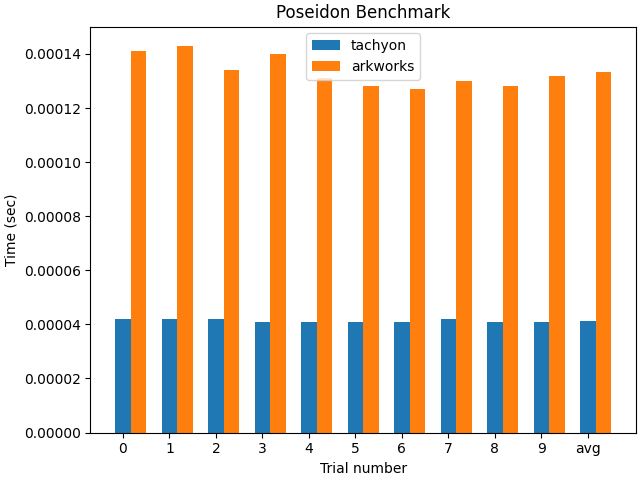
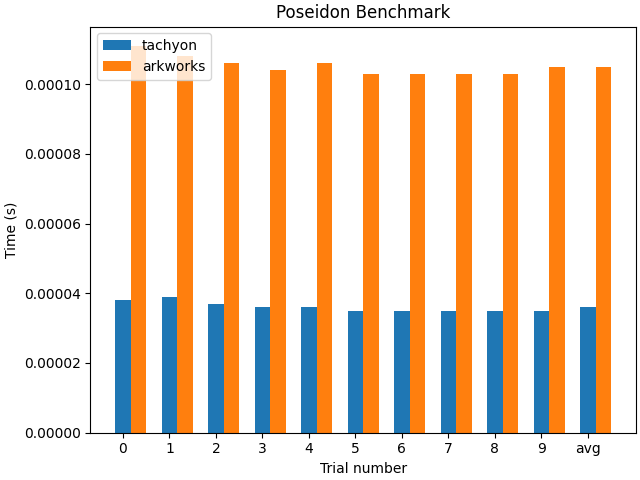
docs(benchmark): update `Poseidon` benchmark

diff --git a/benchmark/poseidon/README.md b/benchmark/poseidon/README.md
@@ -21,36 +21,36 @@ bazel run -c opt --//:has_openmp --//:has_rtti --//:has_matplotlib //benchmark/p
 
 ## On Intel i9-13900K
 
-| Repetition | Tachyon      | Arkworks  |
-| :--------: | ------------ | --------- |
-|     0      | **3.5e-05**  | 0.000122  |
-|     1      | **3.5e-05**  | 0.00012   |
-|     2      | **3.6e-05**  | 0.000124  |
-|     3      | **3.6e-05**  | 0.000126  |
-|     4      | **3.4e-05**  | 0.000123  |
-|     5      | **3.4e-05**  | 0.00012   |
-|     6      | **3.4e-05**  | 0.00012   |
-|     7      | **3.3e-05**  | 0.000118  |
-|     8      | **3.4e-05**  | 0.000121  |
-|     9      | **3.3e-05**  | 0.00012   |
-|    avg     | **3.44e-05** | 0.0001214 |
+| Repetition | Tachyon     | Arkworks |
+| :--------: | ----------- | -------- |
+|     0      | **3.4e-05** | 0.000103 |
+|     1      | **3.4e-05** | 0.000103 |
+|     2      | **3.3e-05** | 0.000101 |
+|     3      | **3.3e-05** | 0.000103 |
+|     4      | **3.3e-05** | 0.000103 |
+|     5      | **3.3e-05** | 0.000108 |
+|     6      | **3.3e-05** | 0.000102 |
+|     7      | **3.2e-05** | 0.000104 |
+|     8      | **3.3e-05** | 0.000102 |
+|     9      | **3.1e-05** | 0.000103 |
+|    avg     | **3.2e-05** | 0.000103 |
 
 ![image](/benchmark/poseidon/poseidon_benchmark_ubuntu_i9.png)
 
 ## On Mac M3 Pro
 
-| Repetition | Tachyon      | Arkworks  |
-| :--------: | ------------ | --------- |
-|     0      | **4.2e-05**  | 0.000141  |
-|     1      | **4.2e-05**  | 0.000143  |
-|     2      | **4.2e-05**  | 0.000134  |
-|     3      | **4.1e-05**  | 0.00014   |
-|     4      | **4.1e-05**  | 0.000131  |
-|     5      | **4.1e-05**  | 0.000128  |
-|     6      | **4.1e-05**  | 0.000127  |
-|     7      | **4.2e-05**  | 0.00013   |
-|     8      | **4.1e-05**  | 0.000128  |
-|     9      | **4.1e-05**  | 0.000132  |
-|    avg     | **4.14e-05** | 0.0001334 |
+| Repetition | Tachyon     | Arkworks |
+| :--------: | ----------- | -------- |
+|     1      | **3.9e-05** | 0.000108 |
+|     0      | **3.8e-05** | 0.000111 |
+|     2      | **3.7e-05** | 0.000106 |
+|     3      | **3.6e-05** | 0.000104 |
+|     4      | **3.6e-05** | 0.000106 |
+|     5      | **3.5e-05** | 0.000103 |
+|     6      | **3.5e-05** | 0.000103 |
+|     7      | **3.5e-05** | 0.000103 |
+|     8      | **3.5e-05** | 0.000103 |
+|     9      | **3.5e-05** | 0.000105 |
+|    avg     | **3.6e-05** | 0.000105 |
 
 ![image](/benchmark/poseidon/poseidon_benchmark_mac_m3.png)
